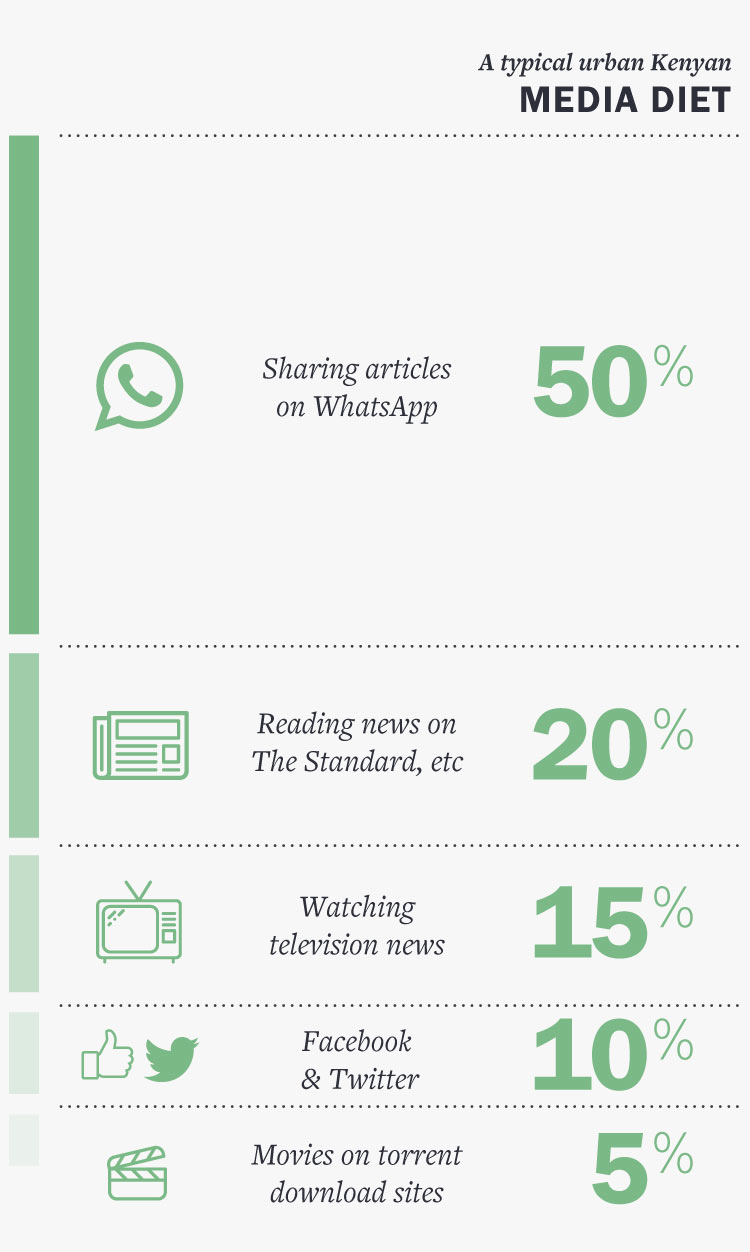
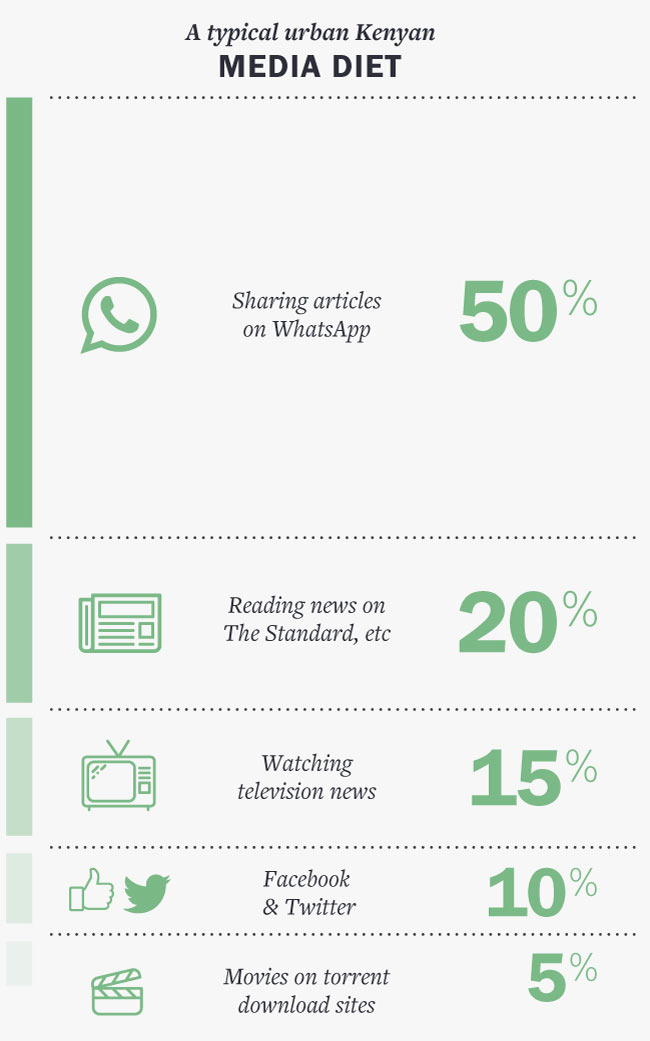
updated media graphic and mobile sizing

diff --git a/_site/assets/main.css b/_site/assets/main.css
@@ -143,6 +143,7 @@ body { background: #2e2f3a; color: #f7f7f7; font-family: "freight-text-pro", ser
 img { max-width: 100%; }
 
 .wrapper { margin: 0 auto; width: 100%; max-width: 1200px; padding: 0 2.5rem; }
+@media (max-width: 600px) { .wrapper { padding-left: 1rem; padding-right: 1rem; } }
 
 .header { background: #E8E8E8; border-bottom: 0.8rem solid #7bba87; padding: 1.5rem 0; overflow: hidden; -webkit-transition: height .5s ease; transition: height .5s ease; }
 

diff --git a/assets/main.scss b/assets/main.scss
@@ -27,6 +27,11 @@ img {
   width: 100%;
   max-width: $maxWidth;
   padding: 0 $wrapperPad;
+
+  @include breakpoint('mobile') {
+    padding-left: 1rem;
+    padding-right: 1rem;
+  }
 }
 
 .header {
